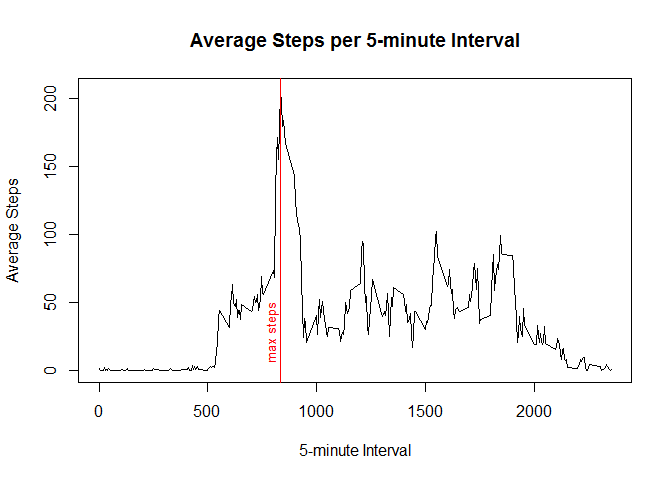
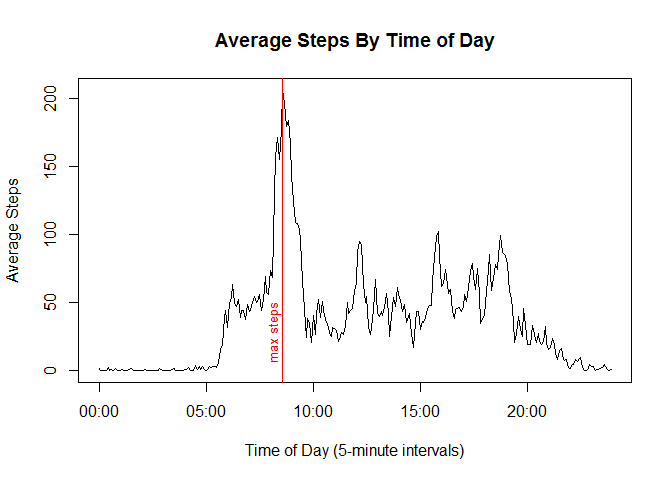
Fix time handling

diff --git a/PA1_template.html b/PA1_template.html
@@ -118,26 +118,38 @@ stepsPerInterval &lt;- data %&gt;%
     group_by(interval) %&gt;% 
     summarize(intervalSteps = mean(steps, na.rm = TRUE))
 
-## sort by decreasing average steps per interval and take first row
-maxStepsInterval &lt;- stepsPerInterval[order(stepsPerInterval$intervalSteps, decreasing = TRUE), ][1, ]$interval
 
-## plot line graph of average steps per 5-minute interval
-with(stepsPerInterval, plot(interval, intervalSteps, 
+## convert interval to time format
+stepsPerInterval$hour &lt;- with(stepsPerInterval, substr(interval, nchar(interval)-3, nchar(interval)-2))
+
+stepsPerInterval$hour[stepsPerInterval$hour==&quot;&quot;] &lt;- 0
+
+stepsPerInterval$min &lt;- stepsPerInterval$interval - as.numeric(stepsPerInterval$hour)*100
+
+stepsPerInterval$time &lt;- as.POSIXct(strptime(paste(stepsPerInterval$hour, stepsPerInterval$min, sep=&quot;:&quot;), &quot;%H:%M&quot;))   
+
+## sort by decreasing average steps per interval and take first row
+maxStepsInterval &lt;- stepsPerInterval[order(stepsPerInterval$intervalSteps, decreasing = TRUE), ][1, ]$time
+
+## plot average steps by time of day
+with(stepsPerInterval,
+    plot(time, intervalSteps, 
                             type=&quot;l&quot;, 
-                            main = &quot;Average Steps per 5-minute Interval&quot;,
-                            xlab = &quot;5-minute Interval&quot;,
+                            main = &quot;Average Steps By Time of Day&quot;,
+                            xlab = &quot;Time of Day (5-minute intervals)&quot;,
                             ylab = &quot;Average Steps&quot;))
-abline(v = maxStepsInterval, col = &quot;red&quot;)     ## show interval with the max steps
+abline(v = as.numeric(maxStepsInterval), col = &quot;red&quot;)     ## show interval with the max steps
 text(maxStepsInterval, 50, &quot;max steps&quot;,       ## label max steps line
      pos = 2, 
      offset = 0.5, 
      srt = 90, 
      col = &quot;red&quot;, 
-     cex = 0.8)</code></pre>
[1 lines of base64/hex data omitted]
+     cex = 0.8
+)</code></pre>
[1 lines of base64/hex data omitted]
 <div id="results-1" class="section level3">
 <h3>Results:</h3>
-<p>On average, the maximum number of steps occurs in interval <strong>835</strong>.</p>
+<p>On average, the maximum number of steps occurs at <strong>08:35</strong>.</p>
 </div>
 </div>
 <div id="imputing-missing-values" class="section level2">
@@ -147,7 +159,7 @@ text(maxStepsInterval, 50, &quot;max steps&quot;,       ## label max steps line
 missing &lt;- sum(is.na(data$steps))
 
 ## use mean for 5-minute interval to impute missing values
-dataImp &lt;- merge(data, stepsPerInterval, by = &quot;interval&quot;)
+dataImp &lt;- merge(data, stepsPerInterval[,1:2], by = &quot;interval&quot;)
 dataImp$steps[is.na(dataImp$steps)] &lt;- dataImp$intervalSteps[is.na(dataImp$steps)]
 
 ## recalculate total steps per day using imputed values
@@ -192,16 +204,30 @@ stepsByWeekday &lt;- dataImp %&gt;%
     group_by(weekday, interval) %&gt;%
     summarize(mean = mean(steps))
 
+## convert interval to time format
+stepsByWeekday$hour &lt;- with(stepsByWeekday, substr(interval, nchar(interval)-3, nchar(interval)-2))
+
+stepsByWeekday$hour[stepsByWeekday$hour==&quot;&quot;] &lt;- 0
+
+stepsByWeekday$min &lt;- stepsByWeekday$interval - as.numeric(stepsByWeekday$hour)*100
+
+stepsByWeekday$time &lt;- as.POSIXct(strptime(paste(stepsByWeekday$hour, stepsByWeekday$min, sep=&quot;:&quot;), &quot;%H:%M&quot;)) 
+
 ## plot in lattice
-xyplot(mean ~ interval | weekday,
+xyplot(mean ~ time | weekday,
        data = stepsByWeekday,
        type = &quot;l&quot;,
        layout = c(1,2),
        main = &quot;Average steps per 5-minute interval&quot;,
        xlab = &quot;5-minute interval&quot;,
-       ylab = &quot;Number of steps&quot;
-       )</code></pre>
[1 lines of base64/hex data omitted]
+       ylab = &quot;Number of steps&quot;,
+      scales = list(
+        x = list(
+          format = &quot;%H:%M&quot;
+        )
+      )
+)</code></pre>
[1 lines of base64/hex data omitted]
 <div id="results-3" class="section level3">
 <h3>Results:</h3>
 <p>The number of steps appears to peak on Weekays around the 800th interval with lower levels of activity (generally below 100 steps per interval) over the rest of the day. On weekends, the number of steps start and end a bit later in the day and the activity level remains more consistent (around 150 steps per interval) throughout the day.</p>

diff --git a/PA1_template.md b/PA1_template.md
@@ -66,28 +66,40 @@ stepsPerInterval <- data %>%
     group_by(interval) %>% 
     summarize(intervalSteps = mean(steps, na.rm = TRUE))
 
-## sort by decreasing average steps per interval and take first row
-maxStepsInterval <- stepsPerInterval[order(stepsPerInterval$intervalSteps, decreasing = TRUE), ][1, ]$interval
 
-## plot line graph of average steps per 5-minute interval
-with(stepsPerInterval, plot(interval, intervalSteps, 
+## convert interval to time format
+stepsPerInterval$hour <- with(stepsPerInterval, substr(interval, nchar(interval)-3, nchar(interval)-2))
+
+stepsPerInterval$hour[stepsPerInterval$hour==""] <- 0
+
+stepsPerInterval$min <- stepsPerInterval$interval - as.numeric(stepsPerInterval$hour)*100
+
+stepsPerInterval$time <- as.POSIXct(strptime(paste(stepsPerInterval$hour, stepsPerInterval$min, sep=":"), "%H:%M"))   
+
+## sort by decreasing average steps per interval and take first row
+maxStepsInterval <- stepsPerInterval[order(stepsPerInterval$intervalSteps, decreasing = TRUE), ][1, ]$time
+
+## plot average steps by time of day
+with(stepsPerInterval,
+    plot(time, intervalSteps, 
                             type="l", 
-                            main = "Average Steps per 5-minute Interval",
-                            xlab = "5-minute Interval",
+                            main = "Average Steps By Time of Day",
+                            xlab = "Time of Day (5-minute intervals)",
                             ylab = "Average Steps"))
-abline(v = maxStepsInterval, col = "red")     ## show interval with the max steps
+abline(v = as.numeric(maxStepsInterval), col = "red")     ## show interval with the max steps
 text(maxStepsInterval, 50, "max steps",       ## label max steps line
      pos = 2, 
      offset = 0.5, 
      srt = 90, 
      col = "red", 
-     cex = 0.8)
+     cex = 0.8
+)
 ```
 
 ![](PA1_template_files/figure-html/unnamed-chunk-3-1.png) 
 
 ### Results:
-On average, the maximum number of steps occurs in interval **835**.  
+On average, the maximum number of steps occurs at **08:35**.  
 
 ## Imputing missing values
 
@@ -98,7 +110,7 @@ Missing values will be imputed using the average steps for each interval.
 missing <- sum(is.na(data$steps))
 
 ## use mean for 5-minute interval to impute missing values
-dataImp <- merge(data, stepsPerInterval, by = "interval")
+dataImp <- merge(data, stepsPerInterval[,1:2], by = "interval")
 dataImp$steps[is.na(dataImp$steps)] <- dataImp$intervalSteps[is.na(dataImp$steps)]
 
 ## recalculate total steps per day using imputed values
@@ -147,15 +159,29 @@ stepsByWeekday <- dataImp %>%
     group_by(weekday, interval) %>%
     summarize(mean = mean(steps))
 
+## convert interval to time format
+stepsByWeekday$hour <- with(stepsByWeekday, substr(interval, nchar(interval)-3, nchar(interval)-2))
+
+stepsByWeekday$hour[stepsByWeekday$hour==""] <- 0
+
+stepsByWeekday$min <- stepsByWeekday$interval - as.numeric(stepsByWeekday$hour)*100
+
+stepsByWeekday$time <- as.POSIXct(strptime(paste(stepsByWeekday$hour, stepsByWeekday$min, sep=":"), "%H:%M")) 
+
 ## plot in lattice
-xyplot(mean ~ interval | weekday,
+xyplot(mean ~ time | weekday,
        data = stepsByWeekday,
        type = "l",
        layout = c(1,2),
        main = "Average steps per 5-minute interval",
        xlab = "5-minute interval",
-       ylab = "Number of steps"
-       )
+       ylab = "Number of steps",
+      scales = list(
+        x = list(
+          format = "%H:%M"
+        )
+      )
+)
 ```
 
 ![](PA1_template_files/figure-html/unnamed-chunk-5-1.png) 
